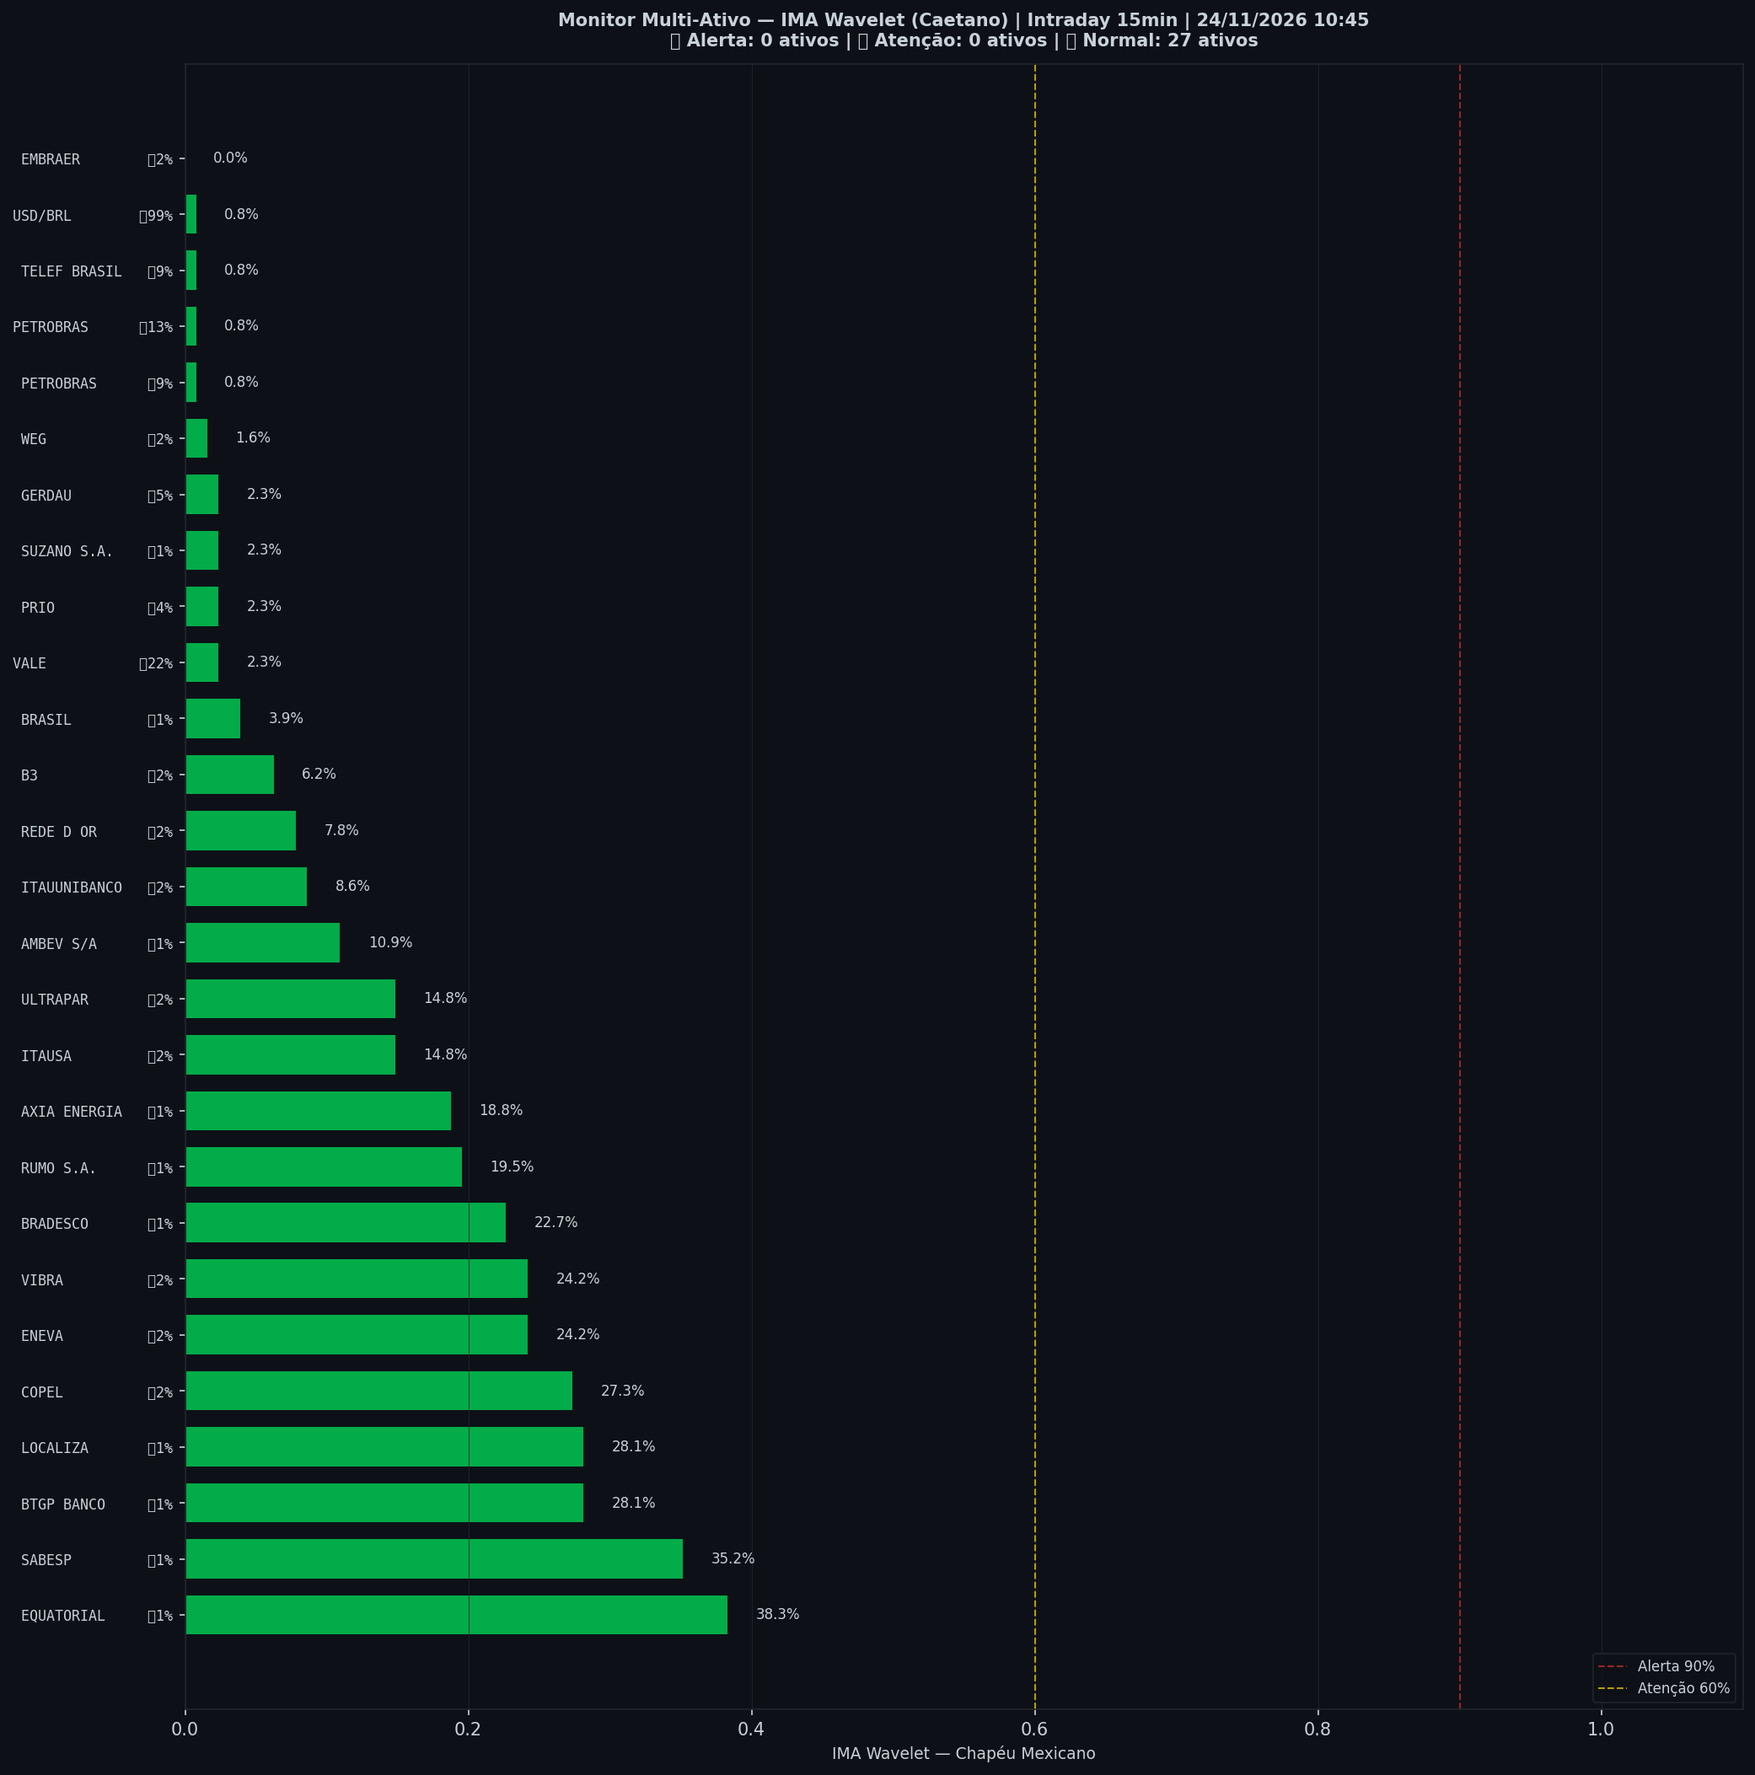
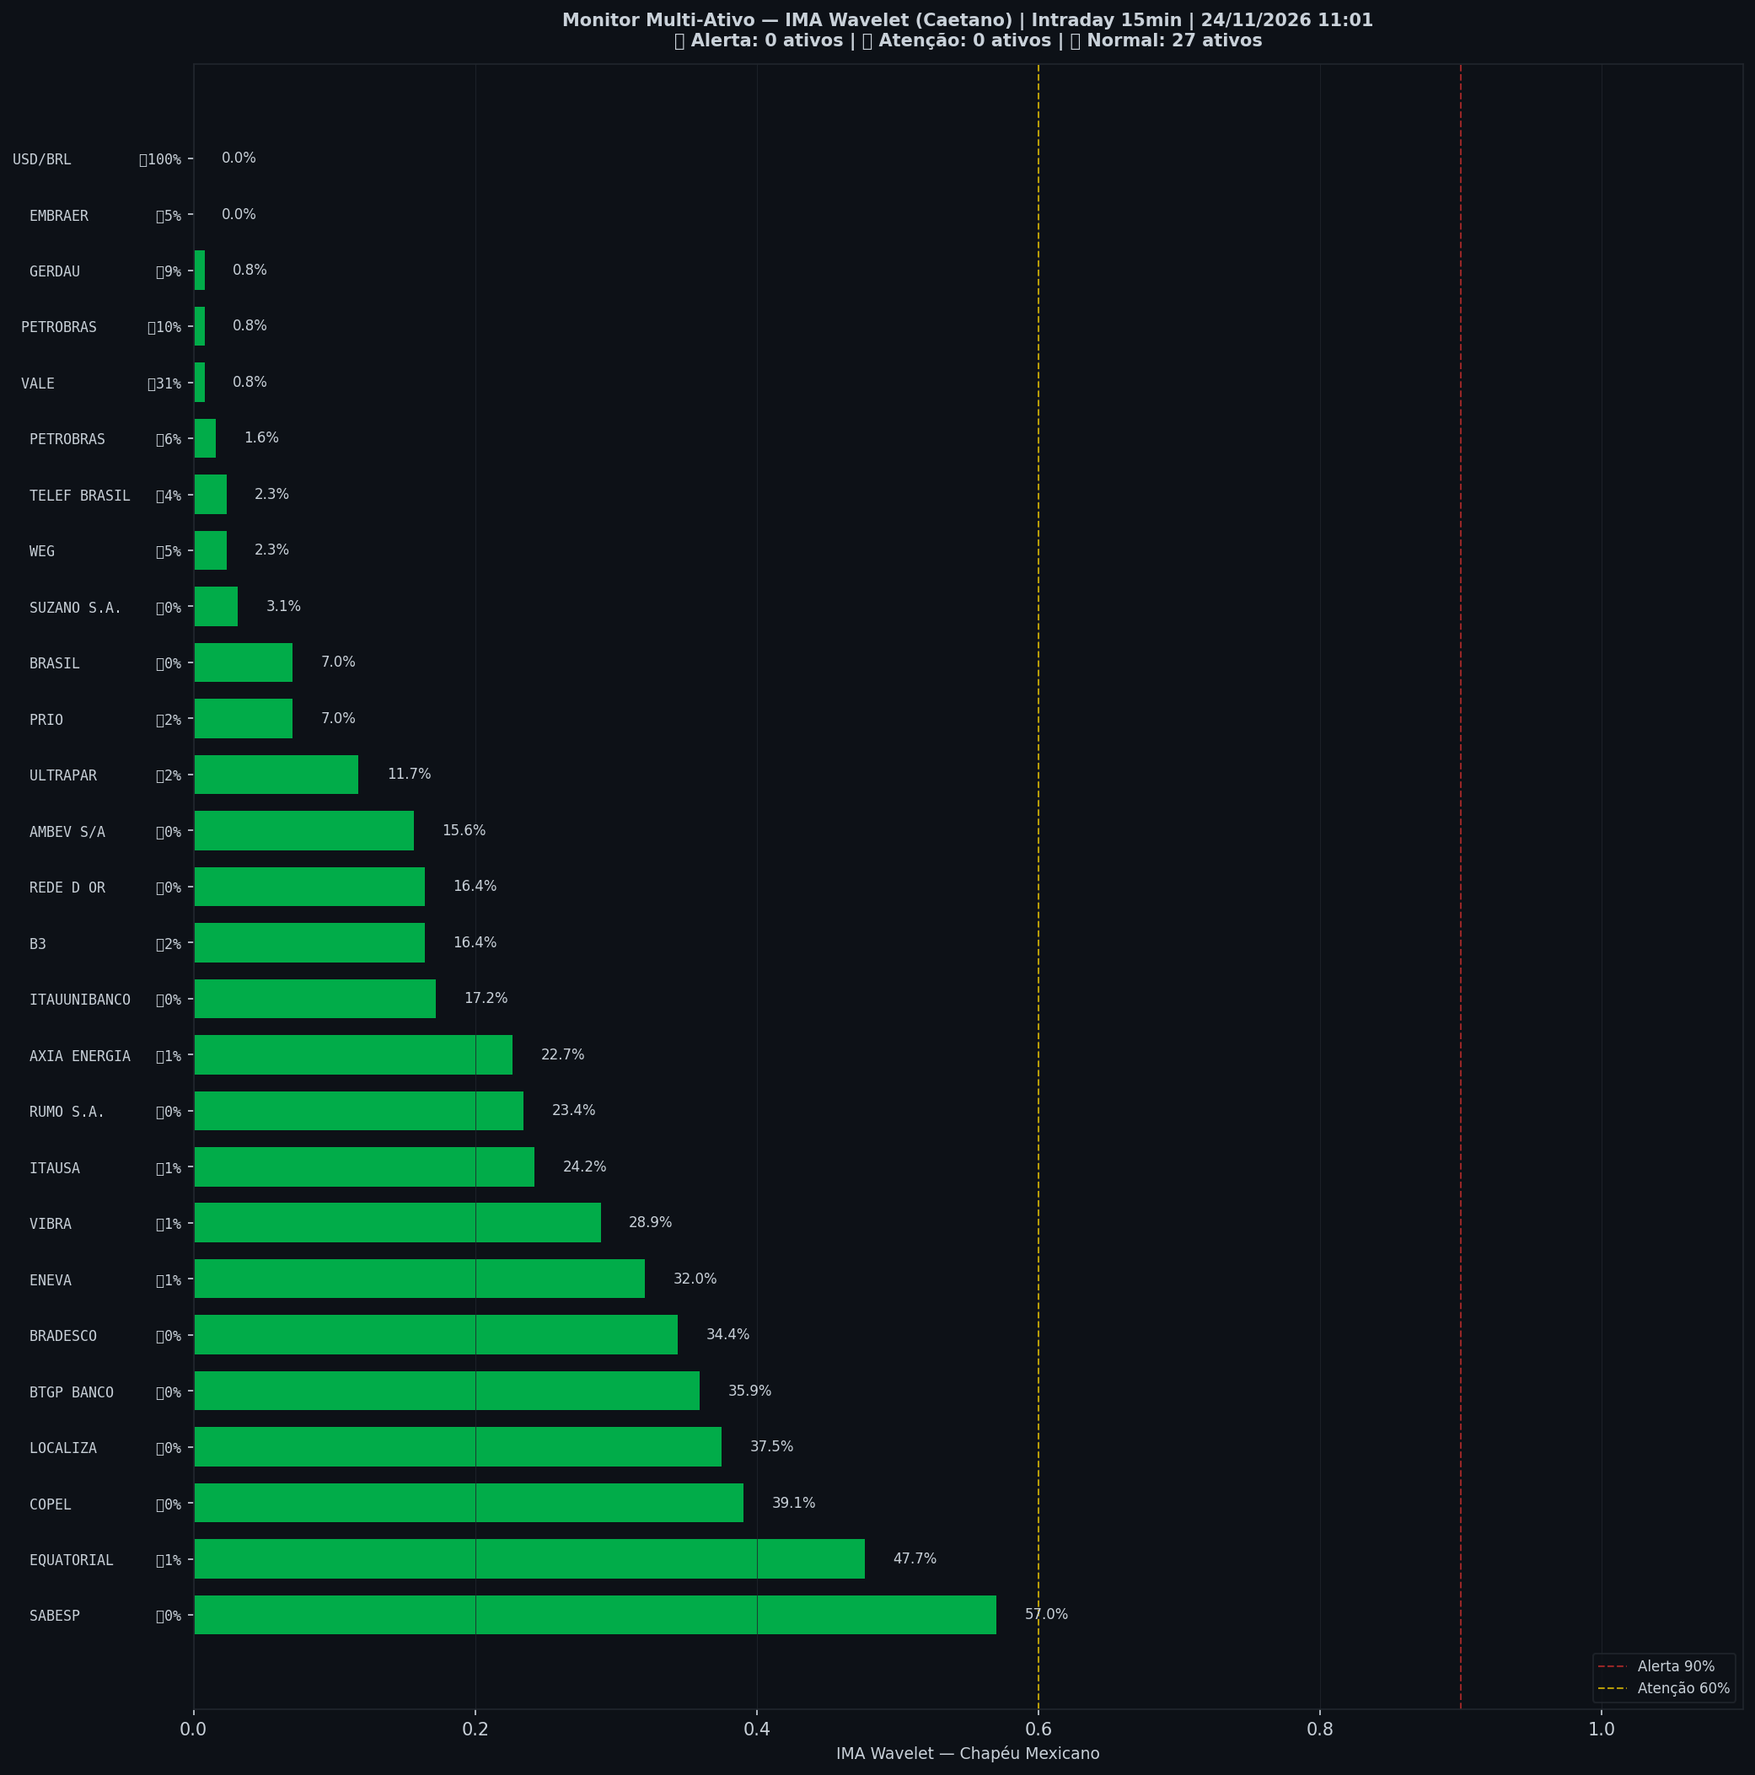
🤖 Auto: Sinal 24/11/2026 11:01

diff --git a/content/intraday/2026-11-24.md b/content/intraday/2026-11-24.md
@@ -1,13 +1,13 @@
 ---
-title: "🟢 Intraday 24/11/2026 10:30 BRT — VERDE"
+title: "🟢 Intraday 24/11/2026 10:45 BRT — VERDE"
 date: 2026-11-24
 tags: [intraday]
 ---
 
-> [!success] Onde o mercado está agora (24/11 10:30, candles de 15 min): **🟢 Calmo**
-> `Pânico ◀───────────●─────────▶ Euforia`
+> [!success] Onde o mercado está agora (24/11 10:45, candles de 15 min): **🟢 Calmo**
+> `Pânico ◀────────────●────────▶ Euforia`
 >
-> **O Ibovespa está praticamente de lado agora, aos 166.046 pontos.** O preço está dentro da sua faixa normal, sem excesso para cima nem para baixo.
+> **O Ibovespa está praticamente de lado agora, aos 166.651 pontos.** O preço está dentro da sua faixa normal, sem excesso para cima nem para baixo.
 > No gráfico diário: 🌱 Fundo se desfazendo.
 >
 > *Leitura educacional baseada em 26 anos de dados. Não é recomendação de investimento.*
@@ -20,8 +20,8 @@ tags: [intraday]
 > | 📍 **Sinais** | hoje: nenhum sinal | [abrir](sinais-topo-fundo/) |
 > | 🧪 **Placar ao vivo** | 1 operação(ões), 0 com lucro, soma -0,8% | [abrir](operacoes/) |
 
-> [!success] IMA Intraday · 15 min (24/11 10:30): 🟢 **VERDE** — Risco 7% · ▼ -3 p.p. vs leitura anterior
-> `█░░░░░░░░░░░░░░░░░░░`
+> [!success] IMA Intraday · 15 min (24/11 10:45): 🟢 **VERDE** — Risco 16% · ▲ +9 p.p. vs leitura anterior
+> `███░░░░░░░░░░░░░░░░░`
 > Preço na faixa normal em torno da tendência.
 
 
@@ -32,13 +32,13 @@ tags: [intraday]
 >
 > *Leitura educacional baseada em 26 anos de dados, não recomendação. [Como usar](../metodologia/crise#3-como-usar-na-prática).*
 
-| Indicador — IMA Intraday · 15 min (24/11 10:30) | Valor |
+| Indicador — IMA Intraday · 15 min (24/11 10:45) | Valor |
 |---|---|
-| 🔴 ζ Topo — preço esticado acima da tendência | **7%** |
-| 🔵 ζ Fundo — preço esticado abaixo da tendência | 2% |
+| 🔴 ζ Topo — preço esticado acima da tendência | **16%** |
+| 🔵 ζ Fundo — preço esticado abaixo da tendência | 0% |
 | 🫧 LPPL bolha — alta super-exponencial (risco de crash) | 0% |
 | 🫧 LPPL antibolha — queda super-exponencial (risco de repique) | 0% |
-| 📊 Ibovespa | 166.046 pts |
+| 📊 Ibovespa | 166.651 pts |
 
 ![Gráfico do sinal](../graficos/sinal_intraday.png)
 
@@ -46,6 +46,7 @@ tags: [intraday]
 
 | Data | Zona | Evento | Risco | ζ Topo | ζ Fundo | LPPL |
 |---|---|---|---|---|---|---|
+| 2026-11-24 10:45 | 🟢 VERDE |  | **16%** | 16% | 0% | 0% |
 | 2026-11-24 10:30 | 🟢 VERDE |  | **7%** | 7% | 2% | 0% |
 | 2026-11-24 10:15 | 🟢 VERDE |  | **10%** | 10% | 2% | 0% |
 | 2026-11-24 10:00 | 🟢 VERDE |  | **5%** | 5% | 2% | 0% |
@@ -75,7 +76,6 @@ tags: [intraday]
 | 2026-11-23 12:15 | 🟢 VERDE |  | **2%** | 2% | 22% | 0% |
 | 2026-11-23 12:00 | 🟢 VERDE |  | **3%** | 3% | 25% | 0% |
 | 2026-11-23 11:45 | 🟢 VERDE |  | **2%** | 2% | 27% | 0% |
-| 2026-11-23 11:30 | 🟢 VERDE |  | **2%** | 2% | 30% | 0% |
 
 <small>Destaques: 🟡 ≥ 60% · 🔴 ≥ 90% (Risco e ζ Topo) · 🔵 ≥ 60% · 🔪 ≥ 90% (ζ Fundo) · 🫧 ≥ 30% · 🫧🔴 ≥ 50% (LPPL)</small>
 
@@ -84,43 +84,43 @@ tags: [intraday]
 **0% dos ativos em tensão** (0🔴 0🟡) · **1 com ζ Fundo alto** — quanto mais ativos disparam juntos, mais confiável o sinal.
 
 > [!danger] Em destaque no multi-ativo
-> 🔪 **USD/BRL** ζ Fundo 99%
+> 🔪 **USD/BRL** ζ Fundo 100%
 
 | Zona | Ativo | Setor | ζ Topo | ζ Fundo |
 |---|---|---|---|---|
-| 🟢 | **USD/BRL** | Câmbio | 0.8% | 🔪 **99.2%** |
-| 🟢 | **EQUATORIAL** | Energia | 38.3% | 0.8% |
-| 🟢 | **SABESP** | Saneamento | 35.2% | 0.8% |
-| 🟢 | **BTGP BANCO** | Financeiro | 28.1% | 0.8% |
-| 🟢 | **LOCALIZA** | Aluguel | 28.1% | 0.8% |
-| 🟢 | **COPEL** | Energia | 27.3% | 1.6% |
-| 🟢 | **ENEVA** | Energia | 24.2% | 1.6% |
-| 🟢 | **VIBRA** | Energia | 24.2% | 1.6% |
-| 🟢 | **BRADESCO** | Financeiro | 22.7% | 0.8% |
-| 🟢 | **VALE** | Mineração | 2.3% | 21.9% |
-| 🟢 | **RUMO S.A.** | Outros | 19.5% | 0.8% |
-| 🟢 | **AXIA ENERGIA** | Energia | 18.8% | 0.8% |
-| 🟢 | **ITAUSA** | Financeiro | 14.8% | 1.6% |
-| 🟢 | **ULTRAPAR** | Outros | 14.8% | 1.6% |
-| 🟢 | **PETROBRAS** | Petróleo | 0.8% | 13.3% |
-| 🟢 | **AMBEV S/A** | Consumo | 10.9% | 0.8% |
-| 🟢 | **ITAUUNIBANCO** | Financeiro | 8.6% | 1.6% |
-| 🟢 | **PETROBRAS** | Petróleo | 0.8% | 8.6% |
-| 🟢 | **TELEF BRASIL** | Outros | 0.8% | 8.6% |
-| 🟢 | **REDE D OR** | Saúde | 7.8% | 1.6% |
-| 🟢 | **B3** | Financeiro | 6.2% | 2.3% |
-| 🟢 | **GERDAU** | Siderurgia | 2.3% | 5.5% |
-| 🟢 | **PRIO** | Petróleo | 2.3% | 3.9% |
-| 🟢 | **BRASIL** | Financeiro | 3.9% | 0.8% |
-| 🟢 | **EMBRAER** | Outros | 0.0% | 2.3% |
-| 🟢 | **WEG** | Industrial | 1.6% | 2.3% |
-| 🟢 | **SUZANO S.A.** | Papel/Celulose | 2.3% | 0.8% |
+| 🟢 | **USD/BRL** | Câmbio | 0.0% | 🔪 **100.0%** |
+| 🟢 | **SABESP** | Saneamento | 57.0% | 0.0% |
+| 🟢 | **EQUATORIAL** | Energia | 47.7% | 0.8% |
+| 🟢 | **COPEL** | Energia | 39.1% | 0.0% |
+| 🟢 | **LOCALIZA** | Aluguel | 37.5% | 0.0% |
+| 🟢 | **BTGP BANCO** | Financeiro | 35.9% | 0.0% |
+| 🟢 | **BRADESCO** | Financeiro | 34.4% | 0.0% |
+| 🟢 | **ENEVA** | Energia | 32.0% | 0.8% |
+| 🟢 | **VALE** | Mineração | 0.8% | 31.2% |
+| 🟢 | **VIBRA** | Energia | 28.9% | 0.8% |
+| 🟢 | **ITAUSA** | Financeiro | 24.2% | 0.8% |
+| 🟢 | **RUMO S.A.** | Outros | 23.4% | 0.0% |
+| 🟢 | **AXIA ENERGIA** | Energia | 22.7% | 0.8% |
+| 🟢 | **ITAUUNIBANCO** | Financeiro | 17.2% | 0.0% |
+| 🟢 | **B3** | Financeiro | 16.4% | 1.6% |
+| 🟢 | **REDE D OR** | Saúde | 16.4% | 0.0% |
+| 🟢 | **AMBEV S/A** | Consumo | 15.6% | 0.0% |
+| 🟢 | **ULTRAPAR** | Outros | 11.7% | 2.3% |
+| 🟢 | **PETROBRAS** | Petróleo | 0.8% | 10.2% |
+| 🟢 | **GERDAU** | Siderurgia | 0.8% | 8.6% |
+| 🟢 | **PRIO** | Petróleo | 7.0% | 2.3% |
+| 🟢 | **BRASIL** | Financeiro | 7.0% | 0.0% |
+| 🟢 | **PETROBRAS** | Petróleo | 1.6% | 6.2% |
+| 🟢 | **EMBRAER** | Outros | 0.0% | 4.7% |
+| 🟢 | **WEG** | Industrial | 2.3% | 4.7% |
+| 🟢 | **TELEF BRASIL** | Outros | 2.3% | 3.9% |
+| 🟢 | **SUZANO S.A.** | Papel/Celulose | 3.1% | 0.0% |
 
 <small>Destaques: 🟡 ≥ 60% · 🔴 ≥ 90% (Risco e ζ Topo) · 🔵 ≥ 60% · 🔪 ≥ 90% (ζ Fundo) · 🫧 ≥ 30% · 🫧🔴 ≥ 50% (LPPL)</small>
 
 ![Monitor multi-ativo](../graficos/multi_intraday.png)
 
-*Página atualizada em 24/11/2026 10:45 BRT (leitura da barra de 2026-11-24 10:30 BRT).*
+*Página atualizada em 24/11/2026 11:01 BRT (leitura da barra de 2026-11-24 10:45 BRT).*
 
 > [!warning] O que este indicador não faz
 > Medido em 5 anos de Ibovespa, o ζ **não antecipa** topos nem fundos: a capacidade de separar o que sobe do que cai ficou em 0,49–0,52, e 0,50 é moeda jogada ao ar. Ele descreve o estado de agora; não é aviso do que vem. As zonas verde/amarelo/vermelho continuam na página como descrição desse estado — **não as use como sinal de entrada ou saída**.

diff --git a/content/index.md b/content/index.md
@@ -7,12 +7,12 @@ tags: [home]
 
 **As ondas do mercado, explicadas.** Leitura do Ibovespa com estatística de 26 anos, baseada no trabalho de pesquisadores e traders reconhecidos e adaptada por Jarbas Daniel da Costa.
 
-*Última atualização: 24/11/2026 10:45 BRT · Intraday 15min*
+*Última atualização: 24/11/2026 11:01 BRT · Intraday 15min*
 
-> [!success] Onde o mercado está agora (24/11 10:30, candles de 15 min): **🟢 Calmo**
-> `Pânico ◀───────────●─────────▶ Euforia`
+> [!success] Onde o mercado está agora (24/11 10:45, candles de 15 min): **🟢 Calmo**
+> `Pânico ◀────────────●────────▶ Euforia`
 >
-> **O Ibovespa está praticamente de lado agora, aos 166.046 pontos.** O preço está dentro da sua faixa normal, sem excesso para cima nem para baixo.
+> **O Ibovespa está praticamente de lado agora, aos 166.651 pontos.** O preço está dentro da sua faixa normal, sem excesso para cima nem para baixo.
 > No gráfico diário: 🌱 Fundo se desfazendo.
 >
 > *Leitura educacional baseada em 26 anos de dados. Não é recomendação de investimento.*
@@ -21,7 +21,7 @@ tags: [home]
 
 | Módulo | Agora | |
 |---|---|---|
-| 🌊 **Sinal IMA** | 🟢 VERDE · 🟢 calmo · ζ Topo 7% | [relatório](intraday/2026-11-24) |
+| 🌊 **Sinal IMA** | 🟢 VERDE · 🟢 calmo · ζ Topo 16% | [relatório](intraday/2026-11-24) |
 | 📈 **Tendência MME9** | Diário — fora<br>Semanal — fora | [abrir](operacoes/tendencia) |
 | 🎯 **Entradas do método** | — nenhuma regra com setup ativo | [abrir](operacoes/entradas) |
 | 📍 **Sinais** | hoje: nenhum sinal | [abrir](sinais-topo-fundo/) |
@@ -45,18 +45,18 @@ tags: [home]
 > *Leitura educacional baseada em 26 anos de dados, não recomendação. [Como usar](metodologia/crise#3-como-usar-na-prática).*
 
 > [!info]- 🌊 Detalhes do Sinal IMA (indicadores e últimos 7 pregões)
-> > [!success] IMA Intraday · 15 min (24/11 10:30): 🟢 **VERDE** — Risco 7% · ▼ -3 p.p. vs leitura anterior
-> > `█░░░░░░░░░░░░░░░░░░░`
+> > [!success] IMA Intraday · 15 min (24/11 10:45): 🟢 **VERDE** — Risco 16% · ▲ +9 p.p. vs leitura anterior
+> > `███░░░░░░░░░░░░░░░░░`
 > > Preço na faixa normal em torno da tendência.
 >
 >
-> | Indicador — IMA Intraday · 15 min (24/11 10:30) | Valor |
+> | Indicador — IMA Intraday · 15 min (24/11 10:45) | Valor |
 > |---|---|
-> | 🔴 ζ Topo — preço esticado acima da tendência | **7%** |
-> | 🔵 ζ Fundo — preço esticado abaixo da tendência | 2% |
+> | 🔴 ζ Topo — preço esticado acima da tendência | **16%** |
+> | 🔵 ζ Fundo — preço esticado abaixo da tendência | 0% |
 > | 🫧 LPPL bolha — alta super-exponencial (risco de crash) | 0% |
 > | 🫧 LPPL antibolha — queda super-exponencial (risco de repique) | 0% |
-> | 📊 Ibovespa | 166.046 pts |
+> | 📊 Ibovespa | 166.651 pts |
 >
 > **Multi-ativo:** 0% em tensão (0🔴 0🟡 de 27 ativos)
 >
@@ -64,7 +64,7 @@ tags: [home]
 >
 > | Data | Zona | Risco | ζ Topo | ζ Fundo | LPPL |
 > |---|---|---|---|---|---|
-> | [24/11/2026](intraday/2026-11-24) | 🟢 VERDE | **7%** | 7% | 2% | 0% |
+> | [24/11/2026](intraday/2026-11-24) | 🟢 VERDE | **16%** | 16% | 0% | 0% |
 > | [23/11/2026](intraday/2026-11-23) | 🟢 VERDE | **3%** | 3% | 0% | 0% |
 >
 > <small>Destaques: 🟡 ≥ 60% · 🔴 ≥ 90% (Risco e ζ Topo) · 🔵 ≥ 60% · 🔪 ≥ 90% (ζ Fundo) · 🫧 ≥ 30% · 🫧🔴 ≥ 50% (LPPL)</small>

diff --git a/content/integridade/index.md b/content/integridade/index.md
@@ -6,7 +6,7 @@ description: "O que foi conferido, contra qual fonte e quando — medido na hora
 tags: [integridade]
 ---
 
-*Pregão conferido: **19/11/2026**, com 55 tabelas no acervo · página gerada em 24/11/2026 10:45*
+*Pregão conferido: **19/11/2026**, com 55 tabelas no acervo · página gerada em 24/11/2026 11:01*
 
 O pregão conferido é o último **fechado e arquivado inteiro**, não o de hoje: enquanto o dia corre, só algumas tabelas estão gravadas, e conferir um dia pela metade produziria alarme falso.
 
@@ -23,7 +23,7 @@ Esta página não declara que o site está correto. Ela **mede** e escreve o res
 | Tabelas com conteúdo fora da curva | nenhuma |
 | Páginas publicadas | 367 |
 | Conferências cruzadas das páginas | 71 certas, nenhuma divergência |
-| Página escrita mais recentemente | 24/11 10:45 |
+| Página escrita mais recentemente | 24/11 11:01 |
 | Páginas sem data no cabeçalho | 9 — cegas para a conferência de dado |
 
 ## 1 · Acervo do boletim diário
@@ -124,7 +124,7 @@ Pregão mais recente declarado por alguma página: **23/11/2026**.
 | `intraday/index.md` | 16/11 14:43 | 7.8 |
 | `por-onde-comecar.md` | 16/11 15:20 | 7.8 |
 | `autopsias/index.md` | 19/11 14:39 | 4.8 |
-| `ofertas.md` | 21/11 07:15 | 3.1 |
+| `ofertas.md` | 21/11 07:15 | 3.2 |
 
 ### Página declarando data sem pregão
 

diff --git a/content/operacoes/ranking.md b/content/operacoes/ranking.md
@@ -56,7 +56,7 @@ description: "As regras de compra do site ordenadas pelo resultado, com treino, 
 > 
 > Operação **com 🧪** começou depois de **23/10/2026**, com as regras congeladas. É o único resultado sem nenhum ajuste ao passado, e é por ele que cada regra está sendo julgada.
 
-*Atualizado 24/11/2026 10:45 · histórico simulado com as regras congeladas em 23/10/2026 + placar ao vivo.*
+*Atualizado 24/11/2026 11:01 · histórico simulado com as regras congeladas em 23/10/2026 + placar ao vivo.*
 
 As regras de compra do site, **da que mais rendeu para a que menos rendeu**. O resultado é por operação, no índice à vista, sem custos e sem juros compostos (a soma é só a soma das operações). **Treino** = entradas de 2001 a 2013 e **teste** = 2014 em diante: uma regra só é confiável se ganhou nos dois. O único resultado sem nenhum ajuste ao histórico é o **placar ao vivo**.
 

diff --git a/content/historico.md b/content/historico.md
@@ -5,7 +5,7 @@ tags: [historico]
 
 # 📜 Histórico de leituras (v5)
 
-**2.551 leituras** desde 2026-07-03. Na página ficam os últimos 3 dias leitura por leitura e o resumo de cada dia anterior; o registro inteiro está no arquivo para baixar.
+**2.552 leituras** desde 2026-07-03. Na página ficam os últimos 3 dias leitura por leitura e o resumo de cada dia anterior; o registro inteiro está no arquivo para baixar.
 
 [**Baixar o histórico completo**](historico-completo.csv) (112 KB · abre no Excel e no LibreOffice)
 
@@ -16,6 +16,7 @@ tags: [historico]
 
 | Data | Modo | Zona | Risco | IMA | LPPL |
 |---|---|---|---|---|---|
+| 2026-11-24 10:45 | intraday | 🟢 VERDE | 16% | 16% | 0% |
 | 2026-11-24 10:30 | intraday | 🟢 VERDE | 7% | 7% | 0% |
 | 2026-11-24 10:15 | intraday | 🟢 VERDE | 10% | 10% | 0% |
 | 2026-11-24 10:00 | intraday | 🟢 VERDE | 5% | 5% | 0% |

diff --git a/content/linha-do-tempo/index.md b/content/linha-do-tempo/index.md
@@ -5,7 +5,7 @@ description: "Todo sinal, ordem, stop e aviso do Pêndulo de Mercado, do mais re
 tags: [eventos]
 ---
 
-*Atualizada 24/11/2026 10:45 BRT · a cada 15 min no pregão e às 19h.*
+*Atualizada 24/11/2026 11:01 BRT · a cada 15 min no pregão e às 19h.*
 
 Tudo o que o sistema fez ou detectou, **do mais recente para o mais antigo**: sinais de topo e fundo, ordens de compra e de venda armadas, compras, vendas, stops, avisos de 🚨 preço perto do nível e mudanças do Sinal IMA. Os **últimos 7 dias** ficam abertos; o resto, por **ano → mês → dia**.
 

diff --git a/content/avisos/index.md b/content/avisos/index.md
@@ -2,7 +2,7 @@
 title: "⚠ Avisos: o que saber antes de usar os números"
 ---
 
-*Gerado em 24/11/2026 10:45*
+*Gerado em 24/11/2026 11:01*
 
 Este site publica muitos números, e cada um tem uma limitação que importa na hora de
 decidir. As limitações estão escritas nas próprias páginas, mas quem chega direto numa
